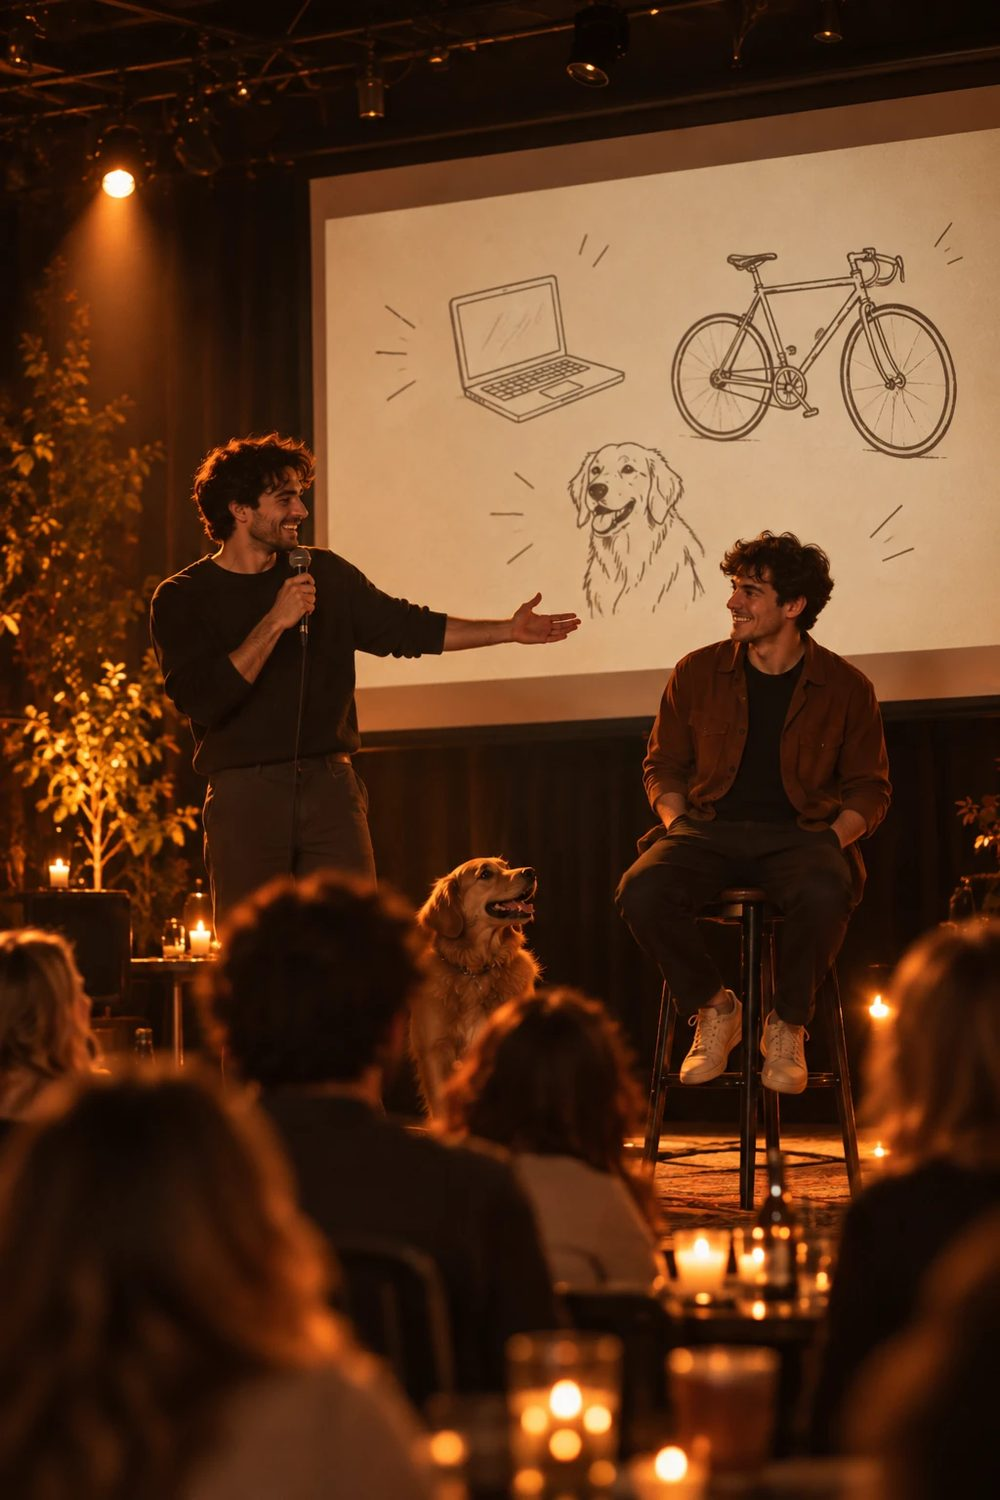
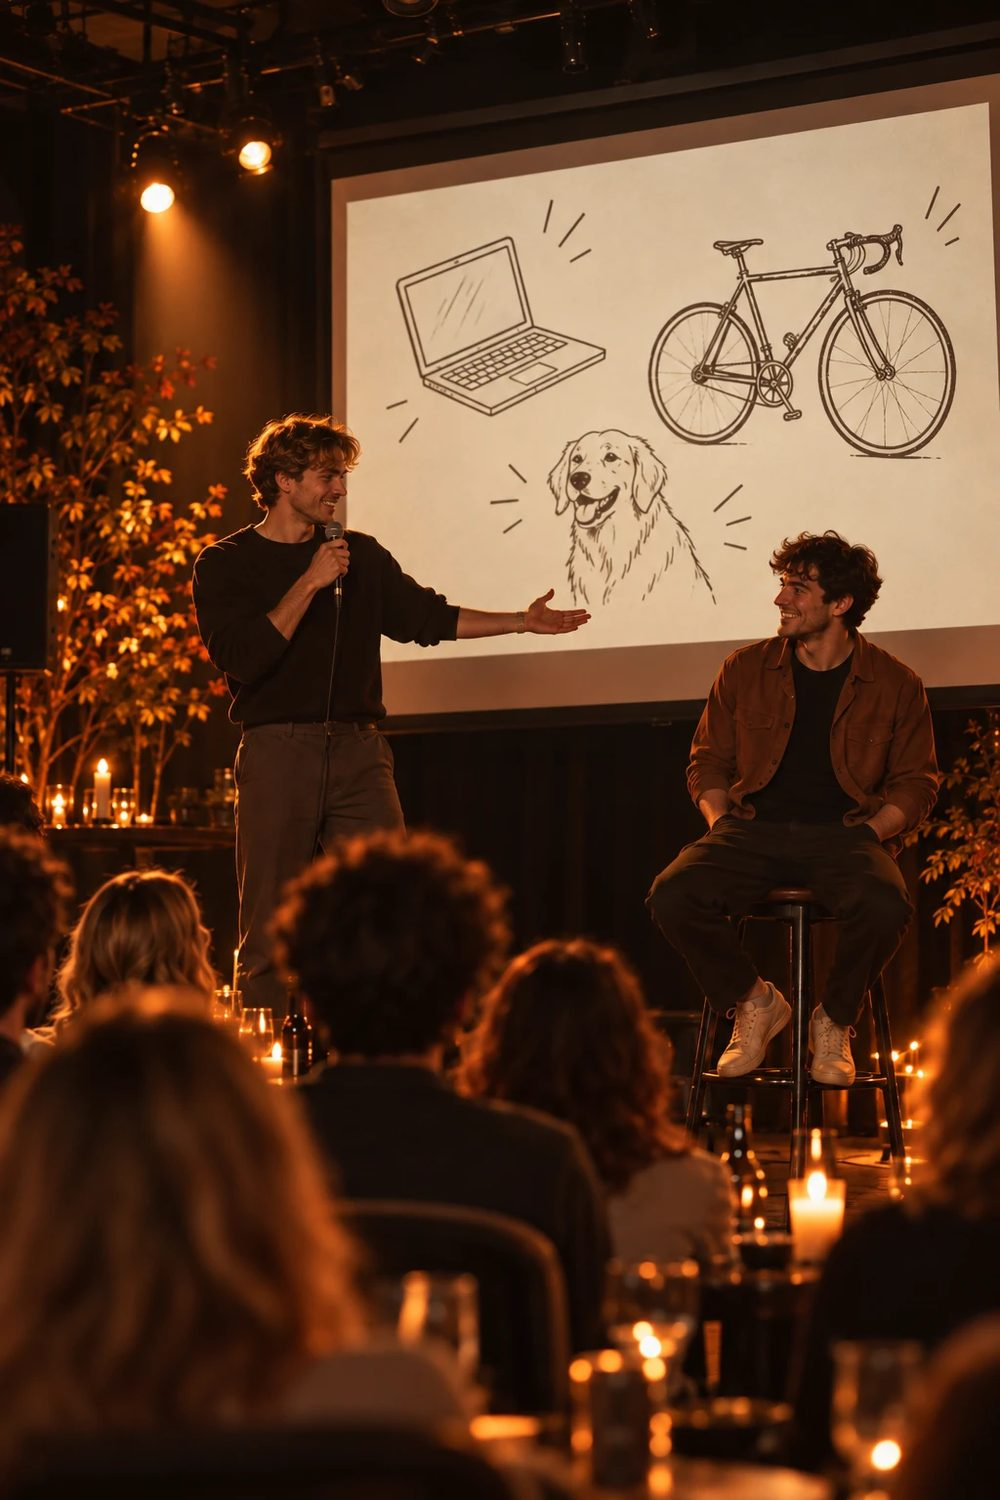
Prihláška: vymenená fotka z pódia

diff --git a/prihlaska.html b/prihlaska.html
@@ -70,7 +70,7 @@
           </div>
         </div>
         <div class="hero-photo podium-photo">
-          <img class="hero-img" src="img/podium-prezentacia.jpg" alt="Kamarát na pódiu s mikrofónom predstavuje svojho single kamaráta, za nimi plátno s obrázkami jeho záľub" width="1000" height="1500">
+          <img class="hero-img" src="img/podium-prezentacia.jpg?v=2" alt="Kamarát na pódiu s mikrofónom predstavuje svojho single kamaráta, za nimi plátno s obrázkami jeho záľub" width="1000" height="1500">
         </div>
       </div>
     </section>
